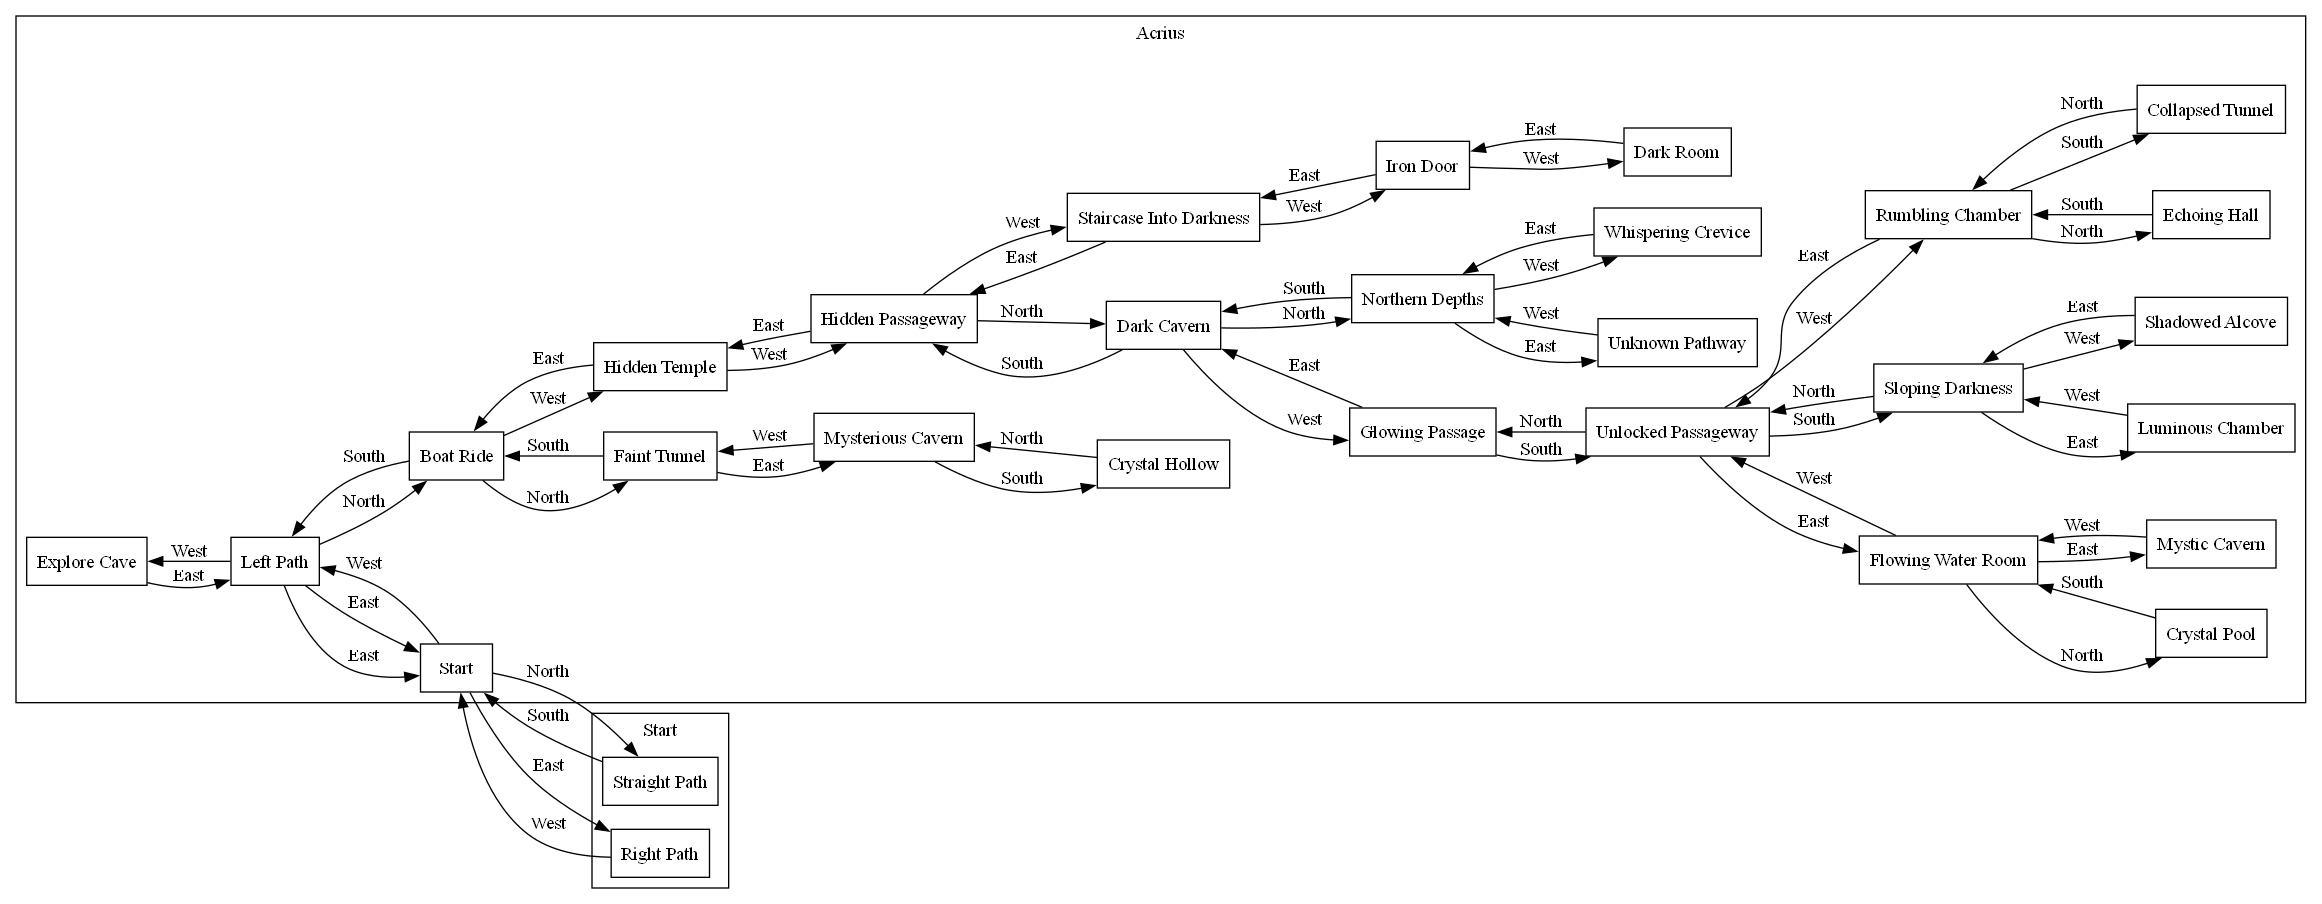
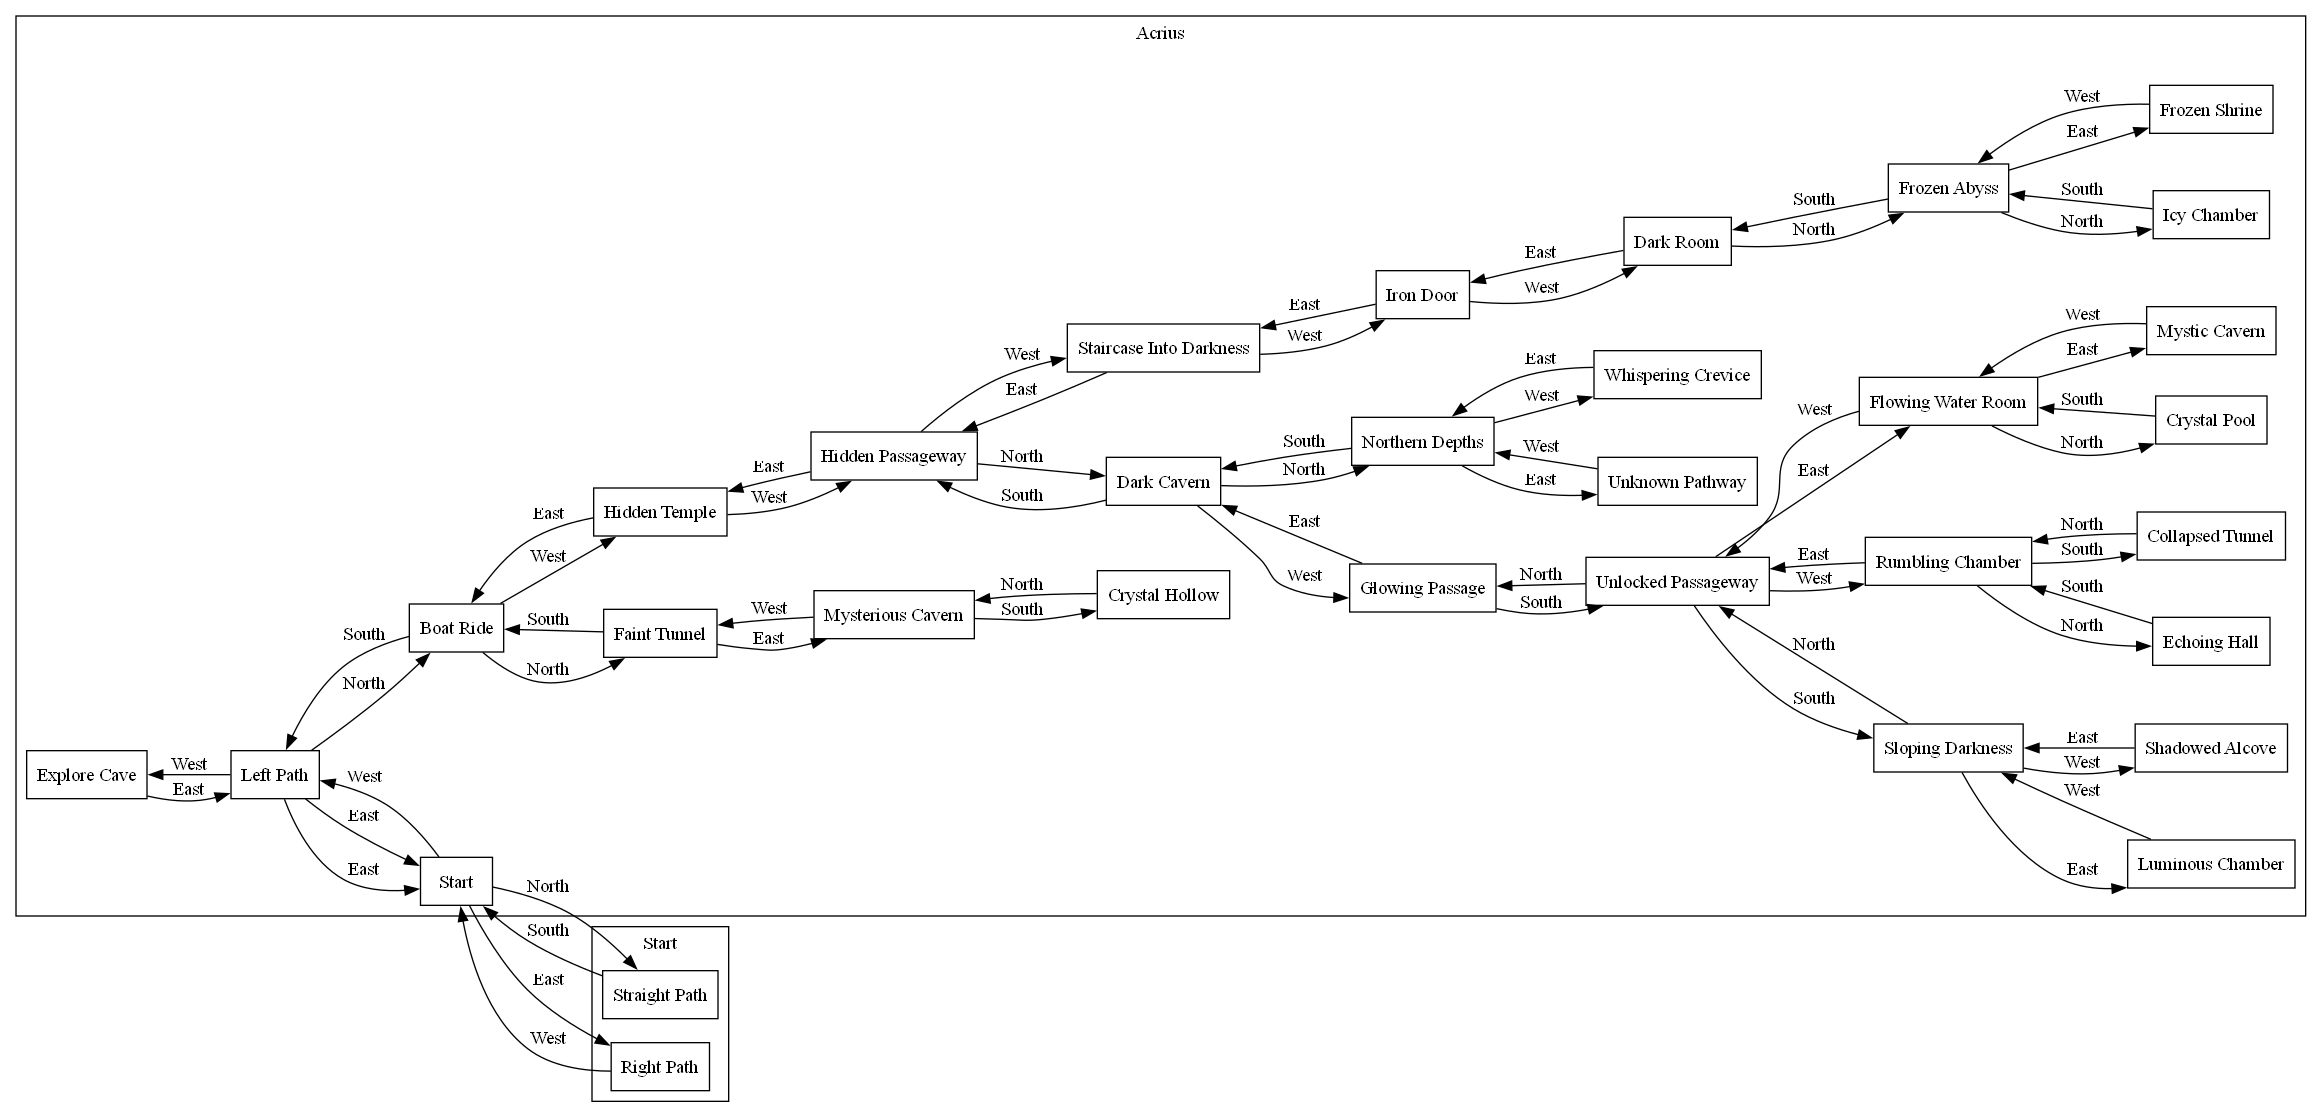
Updated Graphviz, Fixed Glowing Stone, Map can now return a string or be printed using a boolean

diff --git a/Project/src/main/java/Acrius.java b/Project/src/main/java/Acrius.java
@@ -498,7 +498,6 @@ public class Acrius {
     
                     // Ask if the player wants to play again
                     TextEngine.pt(Handler.applyStyle("Do you want to play again? (yes/no)", "i", "b", "red"));
-                    command = scanner.nextLine().toLowerCase();
                     if (command.equals("no")) {
                         TextEngine.pt(Handler.applyStyle("You decided not to play anymore and went back to the Northern Depths.", "i", "darkgrey"));
                         northernDepths(scanner);
@@ -1218,6 +1217,10 @@ public class Acrius {
                 case "time":
                     player.getCurrentTime();
                     break;
+                case "north":
+                    gameMap.moveTo("north");
+                    frozenAbyss(scanner);
+                    return;
                 case "back":
                     gameMap.moveTo("east");
                     ironDoor(scanner);
@@ -1225,10 +1228,147 @@ public class Acrius {
                 case "inventory":
                     player.showInventory(true);
                     break;
+                case "map":
+                    gameMap.displayMap();
+                    break;
                 default:
                     TextEngine.pt(Handler.applyStyle("Invalid command. Please try again.", "i", "red"));
             }
         }
     }
 
+    public static void frozenAbyss(Scanner scanner) {
+        String[] text = {
+            "\nYou step into the Frozen Abyss, a cavern where frost clings to the walls and a chilling wind howls through the air.",
+            "The ground beneath your feet is slippery with ice, and faint blue light reflects off icicles hanging from above.",
+            "You notice three paths ahead: one leading deeper into the abyss, another to the east toward a faint glow, and one that appears to circle back. (north/east/back)"
+        };
+        TextEngine.pt(Handler.applyStyle(text, "i"));
+
+        while (true) {
+            String command = scanner.nextLine().toLowerCase();
+            String[] parts = Handler.parseCommand(command);
+            switch (parts[0]) {
+                case "use":
+                    player.useItem(parts[1]);
+                    break;
+                case "time":
+                    player.getCurrentTime();
+                    break;
+                case "north":
+                    gameMap.moveTo("north");
+                    icyChamber(scanner);
+                    return;
+                case "east":
+                    gameMap.moveTo("east");
+                    frozenShrine(scanner);
+                    return;
+                case "back":
+                    gameMap.moveTo("south");
+                    darkRoom(scanner);
+                    return;
+                case "inventory":
+                    player.showInventory(true);
+                    break;
+                case "map":
+                    gameMap.displayMap();
+                    break;
+                default:
+                    TextEngine.pt(Handler.applyStyle("Invalid command. Please try again.", "i", "red"));
+            }
+        }
+    }
+
+
+    public static void frozenShrine(Scanner scanner) {
+        String[] text = {
+            "\nYou turn east and arrive at the Frozen Shrine, a small, serene chamber.",
+            "The air feels colder here, and a faint, otherworldly glow emanates from a frozen altar at the center of the room.",
+            "The altar holds an intricate ice sculpture that seems to shift slightly as you stare at it.",
+            "There are no paths leading further from here. You can only go back. (back)"
+        };
+        TextEngine.pt(Handler.applyStyle(text, "i"));
+
+        boolean hasTakenItem = false;
+
+        while (true) {
+            String command = scanner.nextLine().toLowerCase();
+            String[] parts = Handler.parseCommand(command);
+            switch (parts[0]) {
+                case "use":
+                    player.useItem(parts[1]);
+                    break;
+                case "time":
+                    player.getCurrentTime();
+                    break;
+                case "search":
+                    if (!hasTakenItem) {
+                        TextEngine.pt(Handler.applyStyle("You search the altar and find a 'Frozen Amulet'. It feels unnaturally warm to the touch.", "i", "darkgrey"));
+                        player.addItem("Frozen Amulet");
+                        hasTakenItem = true;
+                    } else {
+                        TextEngine.pt(Handler.applyStyle("The altar is now empty. There's nothing else to find here.", "i", "darkgrey"));
+                    }
+                    break;
+                case "back":
+                    gameMap.moveTo("west");
+                    frozenAbyss(scanner);
+                    return;
+                case "inventory":
+                    player.showInventory(true);
+                    break;
+                case "map":
+                    gameMap.displayMap();
+                    break;
+                default:
+                    TextEngine.pt(Handler.applyStyle("Invalid command. Please try again.", "i", "red"));
+            }
+        }
+    }
+
+    public static void icyChamber(Scanner scanner) {
+        String[] text = {
+            "\nYou venture deeper into the Frozen Abyss and arrive at the Icy Chamber.",
+            "The air here is frigid, and frost covers every surface, shimmering like diamonds in the faint light.",
+            "In the center of the room, you notice an ice pedestal holding a strange artifact encased in solid ice.",
+            "There are no paths leading further from here. You can only go back. (back)"
+        };
+        TextEngine.pt(Handler.applyStyle(text, "i"));
+
+        boolean hasTakenArtifact = false;
+
+        while (true) {
+            String command = scanner.nextLine().toLowerCase();
+            String[] parts = Handler.parseCommand(command);
+            switch (parts[0]) {
+                case "use":
+                    player.useItem(parts[1]);
+                    break;
+                case "time":
+                    player.getCurrentTime();
+                    break;
+                case "search":
+                    if (!hasTakenArtifact) {
+                        TextEngine.pt(Handler.applyStyle("You break the ice and retrieve the artifact: an 'Ice Crystal'.", "i", "darkgrey"));
+                        player.addItem("Ice Crystal");
+                        hasTakenArtifact = true;
+                    } else {
+                        TextEngine.pt(Handler.applyStyle("There's nothing else to find here.", "i", "darkgrey"));
+                    }
+                    break;
+                case "back":
+                    gameMap.moveTo("south");
+                    frozenAbyss(scanner);
+                    return;
+                case "inventory":
+                    player.showInventory(true);
+                    break;
+                case "map":
+                    gameMap.displayMap();
+                    break;
+                default:
+                    TextEngine.pt(Handler.applyStyle("Invalid command. Please try again.", "i", "red"));
+            }
+        }
+    }
 }

diff --git a/Project/src/main/java/GraphvizGenerator.java b/Project/src/main/java/GraphvizGenerator.java
@@ -46,38 +46,42 @@ public class GraphvizGenerator {
 
     private void initializeRooms() {
         // World, Room, North, South, East, West
-        addRoom("Start", "Start", "Straight Path", null, "Right Path", "Left Path");
-        addRoom("Start", "Left Path", null, null, "Start", null);
-        addRoom("Start", "Right Path", null, null, null, "Start");
-
-        addRoom("Acrius", "Left Path", "Boat Ride", null, "Start", "Explore Cave");
-        addRoom("Acrius", "Boat Ride", "Faint Tunnel", "Left Path", null, "Hidden Temple");
-        addRoom("Acrius", "Faint Tunnel", null, "Boat Ride", "Mysterious Cavern", null);
-        addRoom("Acrius", "Mysterious Cavern", null, "Crystal Hollow", null, "Faint Tunnel");
-        addRoom("Acrius", "Crystal Hollow", "Mysterious Cavern", null, null, null);
-        addRoom("Acrius", "Explore Cave", null, null, "Left Path", null);
-        addRoom("Acrius", "Hidden Temple", null, null, "Boat Ride", "Hidden Passageway");
-        addRoom("Acrius", "Hidden Passageway", "Dark Cavern", null, "Hidden Temple", "Staircase Into Darkness");
-        addRoom("Acrius", "Staircase Into Darkness", null, null, "Hidden Passageway", "Iron Door");
-        addRoom("Acrius", "Iron Door", null, null, "Staircase Into Darkness", "Dark Room");
-        addRoom("Acrius", "Dark Room", null, null, "Iron Door", null);
-        addRoom("Acrius", "Dark Cavern", "Northern Depths", "Hidden Passageway", null, "Glowing Passage");
-        addRoom("Acrius", "Glowing Passage", null, "Unlocked Passageway", "Dark Cavern", null);
-        addRoom("Acrius", "Northern Depths", null, "Dark Cavern", "Unknown Pathway", "Whispering Crevice");
-        addRoom("Acrius", "Whispering Crevice", null, null, "Northern Depths", null);
-        addRoom("Acrius", "Unknown Pathway", null, null, null, "Northern Depths");
-        addRoom("Acrius", "Unlocked Passageway", "Glowing Passage", "Sloping Darkness", "Flowing Water Room", "Rumbling Chamber");
-        addRoom("Acrius", "Flowing Water Room", "Crystal Pool", null, "Mystic Cavern", "Unlocked Passageway");
-        addRoom("Acrius", "Crystal Pool", null, "Flowing Water Room", null, null);
-        addRoom("Acrius", "Mystic Cavern", null, null, null, "Flowing Water Room");
-        addRoom("Acrius", "Sloping Darkness", "Unlocked Passageway", null, "Luminous Chamber", "Shadowed Alcove");
-        addRoom("Acrius", "Shadowed Alcove", null, null, "Sloping Darkness", null);
-        addRoom("Acrius", "Luminous Chamber", null, null, null, "Sloping Darkness");
-        addRoom("Acrius", "Rumbling Chamber", "Echoing Hall", "Collapsed Tunnel", "Unlocked Passageway", null);
-        addRoom("Acrius", "Echoing Hall", null, "Rumbling Chamber", null, null);
-        addRoom("Acrius", "Collapsed Tunnel", "Rumbling Chamber", null, null, null);
-
-        addRoom("Diddy", "Straight Path", null, "Start", null, null);
+        this.addRoom("Start", "Start", "Straight Path", null, "Right Path", "Left Path");
+        this.addRoom("Start", "Left Path", null, null, "Start", null);
+        this.addRoom("Start", "Right Path", null, null, null, "Start");
+        // Left path leads to boat ride and explore cave, east goes back to start
+        this.addRoom("Acrius", "Left Path", "Boat Ride", null, "Start", "Explore Cave");
+        this.addRoom("Acrius", "Boat Ride", "Faint Tunnel", "Left Path", null, "Hidden Temple");
+        this.addRoom("Acrius", "Faint Tunnel", null, "Boat Ride", "Mysterious Cavern", null);
+        this.addRoom("Acrius", "Mysterious Cavern", null, "Crystal Hollow", null, "Faint Tunnel");
+        this.addRoom("Acrius", "Crystal Hollow", "Mysterious Cavern", null, null, null);
+        this.addRoom("Acrius", "Explore Cave", null, null, "Left Path", null);
+        this.addRoom("Acrius", "Hidden Temple", null, null, "Boat Ride", "Hidden Passageway");
+        this.addRoom("Acrius", "Hidden Passageway", "Dark Cavern", null, "Hidden Temple", "Staircase Into Darkness");
+        this.addRoom("Acrius", "Staircase Into Darkness", null, null , "Hidden Passageway", "Iron Door");
+        this.addRoom("Acrius", "Iron Door", null, null, "Staircase Into Darkness", "Dark Room");
+        this.addRoom("Acrius", "Dark Room", "Frozen Abyss", null, "Iron Door", null);
+        this.addRoom("Acrius", "Frozen Abyss", "Icy Chamber", "Dark Room", "Frozen Shrine", null);
+        this.addRoom("Acrius", "Frozen Shrine", null, null, null, "Frozen Abyss");
+        this.addRoom("Acrius", "Icy Chamber", null, "Frozen Abyss", null, null);
+        this.addRoom("Acrius", "Dark Cavern", "Northern Depths", "Hidden Passageway", null, "Glowing Passage");
+        this.addRoom("Acrius", "Glowing Passage", null, "Unlocked Passageway", "Dark Cavern", null);
+        this.addRoom("Acrius", "Northern Depths", null, "Dark Cavern", "Unknown Pathway", "Whispering Crevice");
+        this.addRoom("Acrius", "Whispering Crevice", null, null, "Northern Depths", null);
+        this.addRoom("Acrius", "Unknown Pathway", null, null, null, "Northern Depths");
+        this.addRoom("Acrius", "Unlocked Passageway", "Glowing Passage", "Sloping Darkness", "Flowing Water Room", "Rumbling Chamber");
+        this.addRoom("Acrius", "Flowing Water Room", "Crystal Pool", null, "Mystic Cavern", "Unlocked Passageway");
+        this.addRoom("Acrius", "Crystal Pool", null, "Flowing Water Room", null, null);
+        this.addRoom("Acrius", "Mystic Cavern", null, null, null, "Flowing Water Room");
+        this.addRoom("Acrius", "Sloping Darkness", "Unlocked Passageway", null, "Luminous Chamber", "Shadowed Alcove");
+        this.addRoom("Acrius", "Shadowed Alcove", null, null, "Sloping Darkness", null);
+        this.addRoom("Acrius", "Luminous Chamber", null, null, null, "Sloping Darkness");
+        this.addRoom("Acrius", "Rumbling Chamber", "Echoing Hall", "Collapsed Tunnel", "Unlocked Passageway", null);
+        this.addRoom("Acrius", "Echoing Hall", null, "Rumbling Chamber", null, null);
+        this.addRoom("Acrius", "Collapsed Tunnel", "Rumbling Chamber", null, null, null);
+  
+        // Chibuikems world
+        this.addRoom("Diddy", "Straight Path", null, "Start", null, null);
     }
 
     private void addRoom(String world, String roomName, String north, String south, String east, String west) {

diff --git a/Project/src/main/java/GameMap.java b/Project/src/main/java/GameMap.java
@@ -47,7 +47,10 @@ public class GameMap {
         this.addRoom("Acrius", "Hidden Passageway", "Dark Cavern", null, "Hidden Temple", "Staircase Into Darkness");
         this.addRoom("Acrius", "Staircase Into Darkness", null, null , "Hidden Passageway", "Iron Door");
         this.addRoom("Acrius", "Iron Door", null, null, "Staircase Into Darkness", "Dark Room");
-        this.addRoom("Acrius", "Dark Room", null, null, "Iron Door", null);
+        this.addRoom("Acrius", "Dark Room", "Frozen Abyss", null, "Iron Door", null);
+        this.addRoom("Acrius", "Frozen Abyss", "Icy Chamber", "Dark Room", "Frozen Shrine", null);
+        this.addRoom("Acrius", "Frozen Shrine", null, null, null, "Frozen Abyss");
+        this.addRoom("Acrius", "Icy Chamber", null, "Frozen Abyss", null, null);
         this.addRoom("Acrius", "Dark Cavern", "Northern Depths", "Hidden Passageway", null, "Glowing Passage");
         this.addRoom("Acrius", "Glowing Passage", null, "Unlocked Passageway", "Dark Cavern", null);
         this.addRoom("Acrius", "Northern Depths", null, "Dark Cavern", "Unknown Pathway", "Whispering Crevice");

diff --git a/Project/src/main/java/Player.java b/Project/src/main/java/Player.java
@@ -162,7 +162,7 @@ public class Player {
 
     public boolean parseItem(String item) {
         // Check for specific key items first
-        if (item.equalsIgnoreCase("ancient key")) {
+        if (item.equalsIgnoreCase("ancient key") || item.equalsIgnoreCase("glowing stone")) {
             return true; // Keys are not consumed after use
         }
         // Match patterns for healing items
